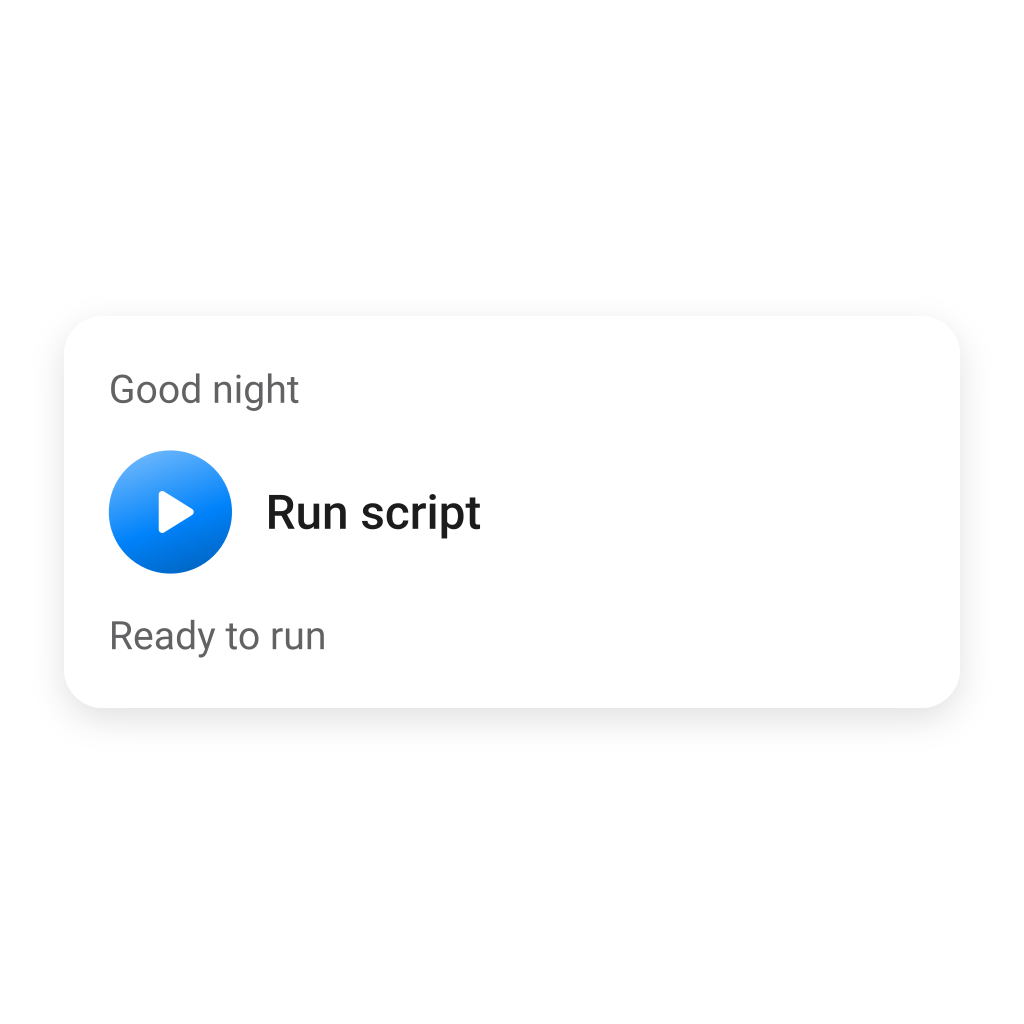
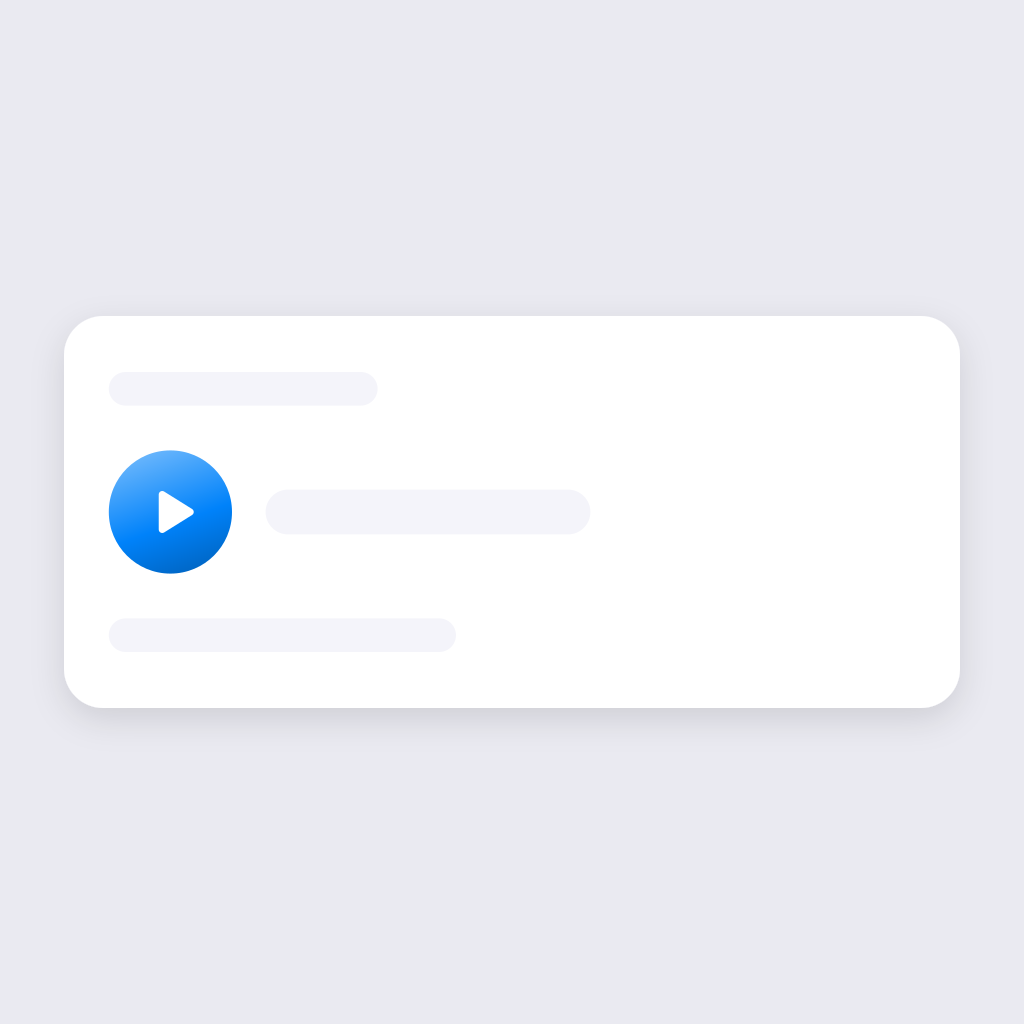
fix: use abstract placeholders in widget previews

Changed region(s): [[0.25, 0.4688, 0.4688, 0.5312], [0.0938, 0.5938, 0.3125, 0.6562], [0.0938, 0.375, 0.2812, 0.4062]]

diff --git a/docs/widgets.md b/docs/widgets.md
@@ -86,19 +86,20 @@ the widget. For periodic updates, use a Flow that runs the saved script.
 
 Homey's [widget SDK guide](https://apps.developer.homey.app/the-basics/widgets)
 requires separate `preview-light.png` and `preview-dark.png` files that accurately
-represent the widget. Our previews use a 1024 × 1024 transparent canvas, following
-the CLI starter template, with a centered widget at its natural content height.
+represent the widget. Follow the linked Figma template's abstract visual style:
+use rounded placeholder bars for titles, labels, values, and timestamps, with no
+rendered text or numbers. Keep recognizable controls such as the play icon.
 
-The button preview shows the default argumentless layout: a round play control,
-editable label, script title, and readiness text. The result preview shows a sample
-numeric return value with a unit and execution timestamp. Colors, Roboto font
-weights, padding, and control sizes match the widget styles. Transparent variants
-omit the card surface and shadow while retaining the same content and spacing.
+Our previews use a 1024 × 1024 canvas with the template's light or dark background
+and a centered widget at its natural content height. The button preview shows the
+default argumentless layout: a round play control with a label placeholder. The
+result preview uses a larger placeholder for the return value. Both include small
+placeholders for the script title and status. Transparent variants omit the card
+surface and shadow; the preview canvas remains visible behind their content.
 
-Keep the adjacent SVG sources and PNG exports in sync. Export at 1024 × 1024 with
-Roboto Regular, Medium, and Bold available, preserving the alpha channel. Inspect
-both themes at the picker size (128 × 128), as well as full resolution. The SVGs
-are editable sources; Homey consumes the PNG files.
+Keep the adjacent SVG sources and PNG exports in sync. Export at 1024 × 1024 and
+inspect both themes at the picker size (128 × 128), as well as full resolution.
+The SVGs are editable sources; Homey consumes the PNG files. No fonts are needed.
 
 ### Validation
 
